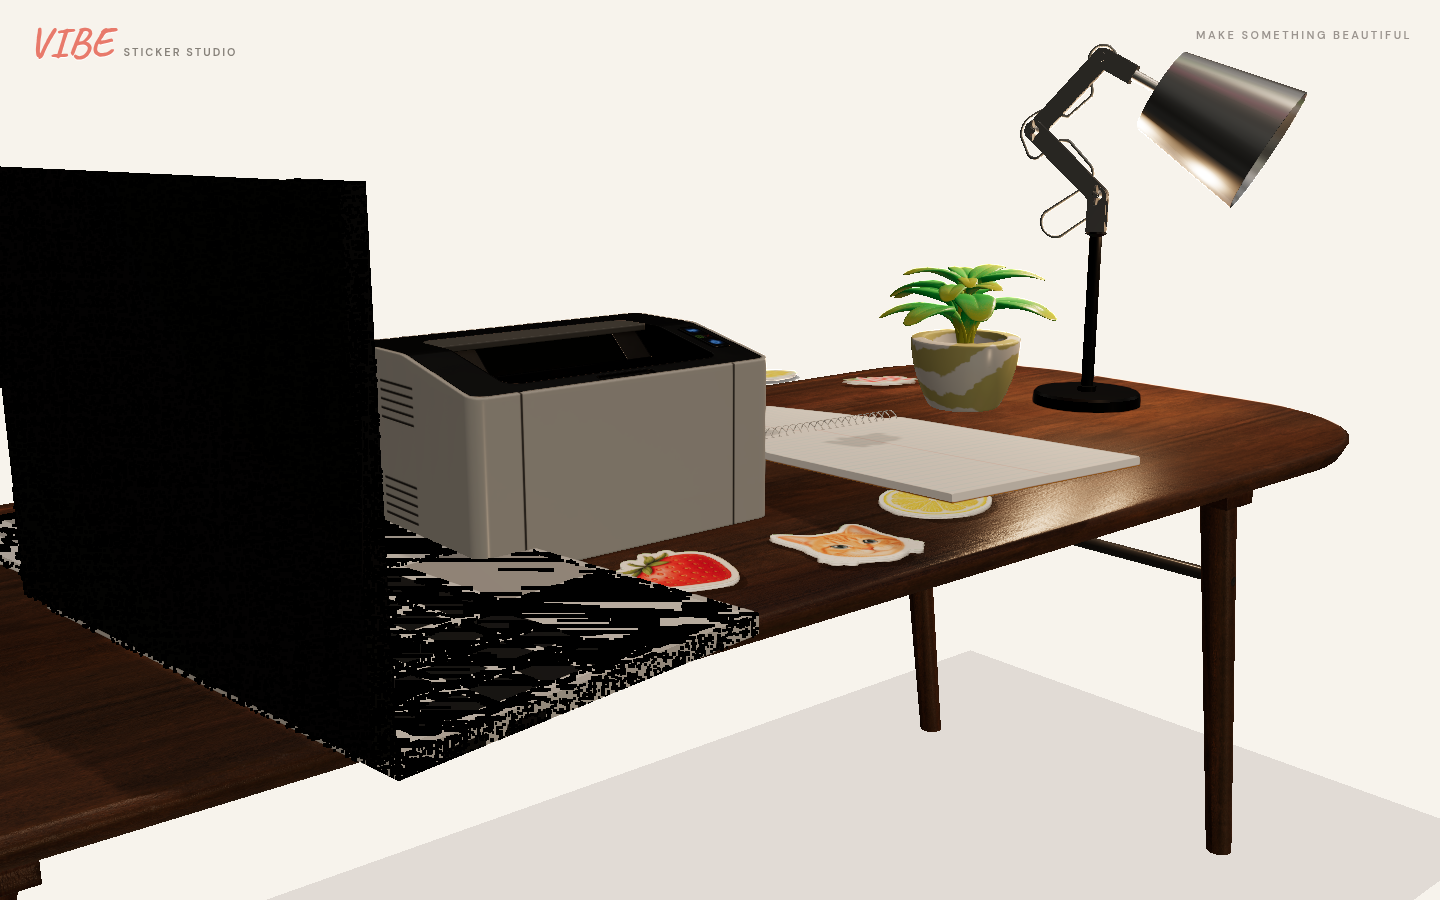
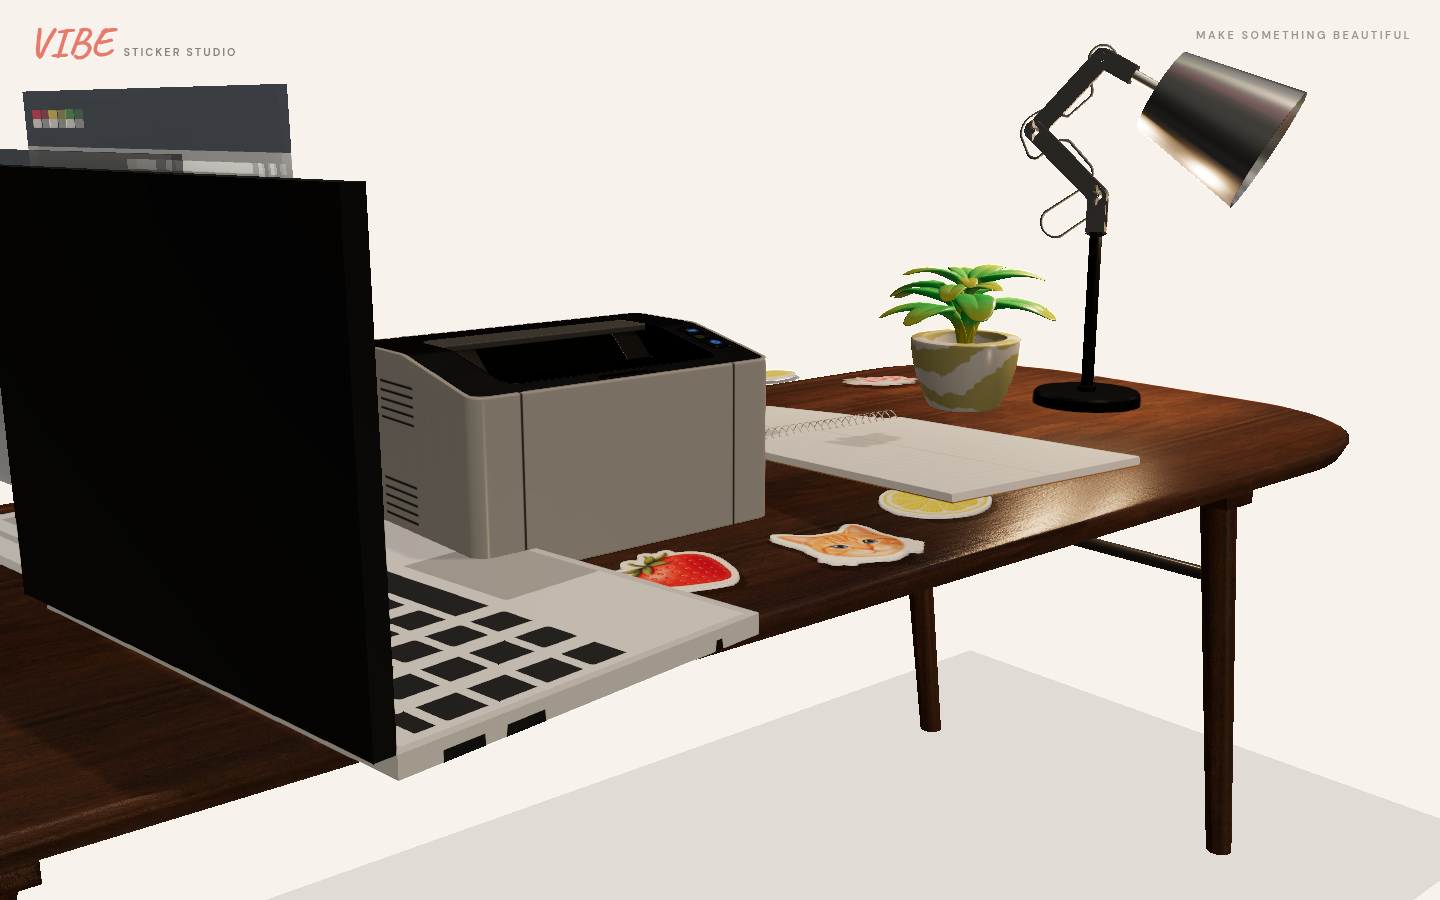
fix(studio): NearestFilter 256×1 laptop palette — kill mosaic noise
palette_baseColor.png is a 256×1 atlas; LINEAR_MIPMAP_LINEAR+REPEAT bled
slots into black/white noise on shell+desk. Force Nearest+Clamp+no-mipmaps
(SRGB), patch scene.gltf sampler; keep true scene.gltf mesh.

diff --git a/public/studio.html b/public/studio.html
@@ -507,32 +507,33 @@ async function mountProps(){
     deskTop.add(wrap);
     loadedProps[id] = wrap;
     if (id === 'laptop'){
-      // Real laptop/scene.gltf — keep palette PBR; no procedural shell
-      keepAuthorPBR(root, { roughBoost: 0.0, env: 0.45 });
+      // Real laptop/scene.gltf — palette_baseColor.png is a 256×1 atlas (NOT a broken file).
+      // Root cause of mosaic: LINEAR_MIPMAP_LINEAR + REPEAT on 1px-tall strip blends adjacent
+      // palette slots into black/white noise that also speckles the desk contact. Fix sampling only.
+      // Materials: palette (shell), palette.001 (screen glass), palette.002 (keys/ports) — keep author.
       root.traverse((o)=>{
         if (!o.isMesh || !o.material) return;
         const mats = Array.isArray(o.material) ? o.material : [o.material];
         for (const m of mats){
-          if (m.roughness != null) m.roughness = THREE.MathUtils.clamp(m.roughness, 0.35, 0.70);
-          // keep author metalness (silver chassis) — do not force plastic
-          m.envMapIntensity = Math.max(0.5, m.envMapIntensity || 0.5);
-          m.needsUpdate = true;
-        }
-      });
-      root.traverse((o)=>{
-        if (!o.isMesh || !o.material) return;
-        const mats = Array.isArray(o.material) ? o.material : [o.material];
-        for (const m of mats){
-          // Sketchfab palette often ships emissiveIntensity >> 1 — clamp
-          if (m.emissiveIntensity != null && m.emissiveIntensity > 1.2){
-            m.emissiveIntensity = 0.55;
+          if (!m) continue;
+          // Bind ONLY author baseColor map — never Steno image0/1, never ORM/normal as albedo
+          const map = m.map;
+          if (map){
+            map.colorSpace = THREE.SRGBColorSpace;
+            map.generateMipmaps = false;
+            map.minFilter = THREE.NearestFilter;
+            map.magFilter = THREE.NearestFilter;
+            map.wrapS = THREE.ClampToEdgeWrapping;
+            map.wrapT = THREE.ClampToEdgeWrapping;
+            map.anisotropy = 1;
+            map.needsUpdate = true;
           }
-          const n = ((o.name||'')+' '+(m.name||'')).toLowerCase();
-          if (/screen|display|lcd|panel|palette\.001/.test(n)){
-            if (!m.emissive) m.emissive = new THREE.Color(0xFFE8D0);
-            else m.emissive.lerp(new THREE.Color(0xFFE8D0), 0.45);
-            m.emissiveIntensity = Math.min(1.05, Math.max(0.55, m.emissiveIntensity || 0.7));
+          // Do not stretch / "enhance" palette colors; leave author roughness/metalness
+          // Soft clamp only extreme Sketchfab emissiveStrength blowouts (not screen polish)
+          if (m.emissiveIntensity != null && m.emissiveIntensity > 4){
+            m.emissiveIntensity = Math.min(m.emissiveIntensity, 1.2);
           }
+          m.envMapIntensity = (m.envMapIntensity == null) ? 0.55 : m.envMapIntensity;
           m.needsUpdate = true;
         }
       });
@@ -559,12 +560,14 @@ async function mountProps(){
         if (maxL.x > deskHalfX) wrap.position.x -= (maxL.x - deskHalfX) + 0.02;
         if (minL.z < -deskHalfZ) wrap.position.z += (-deskHalfZ - minL.z) + 0.02;
         if (maxL.z > deskHalfZ) wrap.position.z -= (maxL.z - deskHalfZ) + 0.02;
+        // Soft untextured contact blob — never a palette-mapped foot
         const foot = makeBlobShadow(0.30);
         foot.position.set(0.012, 0.001, 0.012);
-        foot.material.opacity = 0.28;
+        foot.material.opacity = 0.22;
         wrap.add(foot);
       }
     }
+
     if (id === 'printer'){
       printerGroup = wrap;
       // Keep author grey plastic — 勿改漆

diff --git a/public/studio/webgl-assets/refs/REALGLB-PATHS.md b/public/studio/webgl-assets/refs/REALGLB-PATHS.md
@@ -1,10 +1,9 @@
 # qa-desk-realglb — 6 absolute load paths (user-picks)
 
 Captured: 2026-10-31 Asia/Shanghai · `qa-desk-realglb.png`
-Runtime URL: `http://127.0.0.1:3055/studio.html?view=desk&floats=0`
-Served copies under `public/studio/webgl-assets/glb/*` md5-match sources.
+Runtime: `http://127.0.0.1:3055/studio.html?view=desk&floats=0`
 
-## Absolute paths (report locked)
+## Absolute paths (unchanged)
 
 1. **desk** → `/workspace/vibesticker/cartoon/cards/rebuild/sticker-studio/user-picks/desk/extracted/SM_DiningTable.gltf`
 2. **laptop** → `/workspace/vibesticker/cartoon/cards/rebuild/sticker-studio/user-picks/laptop/extracted/scene.gltf`
@@ -13,16 +12,15 @@ Served copies under `public/studio/webgl-assets/glb/*` md5-match sources.
 5. **lamp** → `/workspace/vibesticker/cartoon/cards/rebuild/sticker-studio/user-picks/desk-lamp/extracted/scene.gltf`
 6. **plant** → `/workspace/vibesticker/cartoon/cards/rebuild/sticker-studio/user-picks/desk-plant/desk-plant.glb`
 
-## Steno open fix
-- Source md5 `3e76e3498515890bde2748bbdc4c4f5d` == `glb/steno/steno-book.glb`
-- HIDE `Steno Book_0` (red closed cover = 红合本替身)
-- SHOW `Steno Book.001` lined pages + spirals → mid-desk `pos [0.05,0,0.04]` size 0.82 xz, tip −0.08 rad
-- No cream albedo wipe; author Steno_Book map kept
+## Laptop mosaic — root cause + fix
 
-## Paint locks
-- Printer: author grey (no white wipe)
-- Lamp: author black metal (no brass lerp); bulb warm emissive only
-- BG: CSS `#F7F3EC` via transparent canvas (ACES-safe)
+**Root cause:** `textures/palette_baseColor.png` is an intentional **256×1 palette atlas** (317B, 59 solid slots). UVs sample single texels at V=0.5. Author glTF sampler was `LINEAR` + `LINEAR_MIPMAP_LINEAR` + `REPEAT`. On a 1px-tall strip, mipmap/linear filtering blends adjacent palette slots → black/white mosaic that also speckled the desk contact. Not a missing/corrupt file; `extracted-images/image0|1` are Steno book textures and must not bind to the laptop.
 
-## Status line
+**Fix:**
+- Runtime: `generateMipmaps=false`, `min/mag=NearestFilter`, `wrap=ClampToEdge`, `colorSpace=SRGBColorSpace`; leave author albedo untouched (no stretch/enhance); no Steno/ORM remap
+- Asset: patch `scene.gltf` sampler to NEAREST + CLAMP_TO_EDGE (served + user-picks extracted)
+- Still true `scene.gltf` mesh (palette / palette.001 / palette.002); no procedural shell
+- Printer grey / lamp black / open Steno / `#F7F3EC` left alone; screen micro-bright + desk roughness deferred
+
+## Status
 `已载: desk, laptop, printer, book, plant, lamp · 缺: 无 · HDRI:09@4000K`
